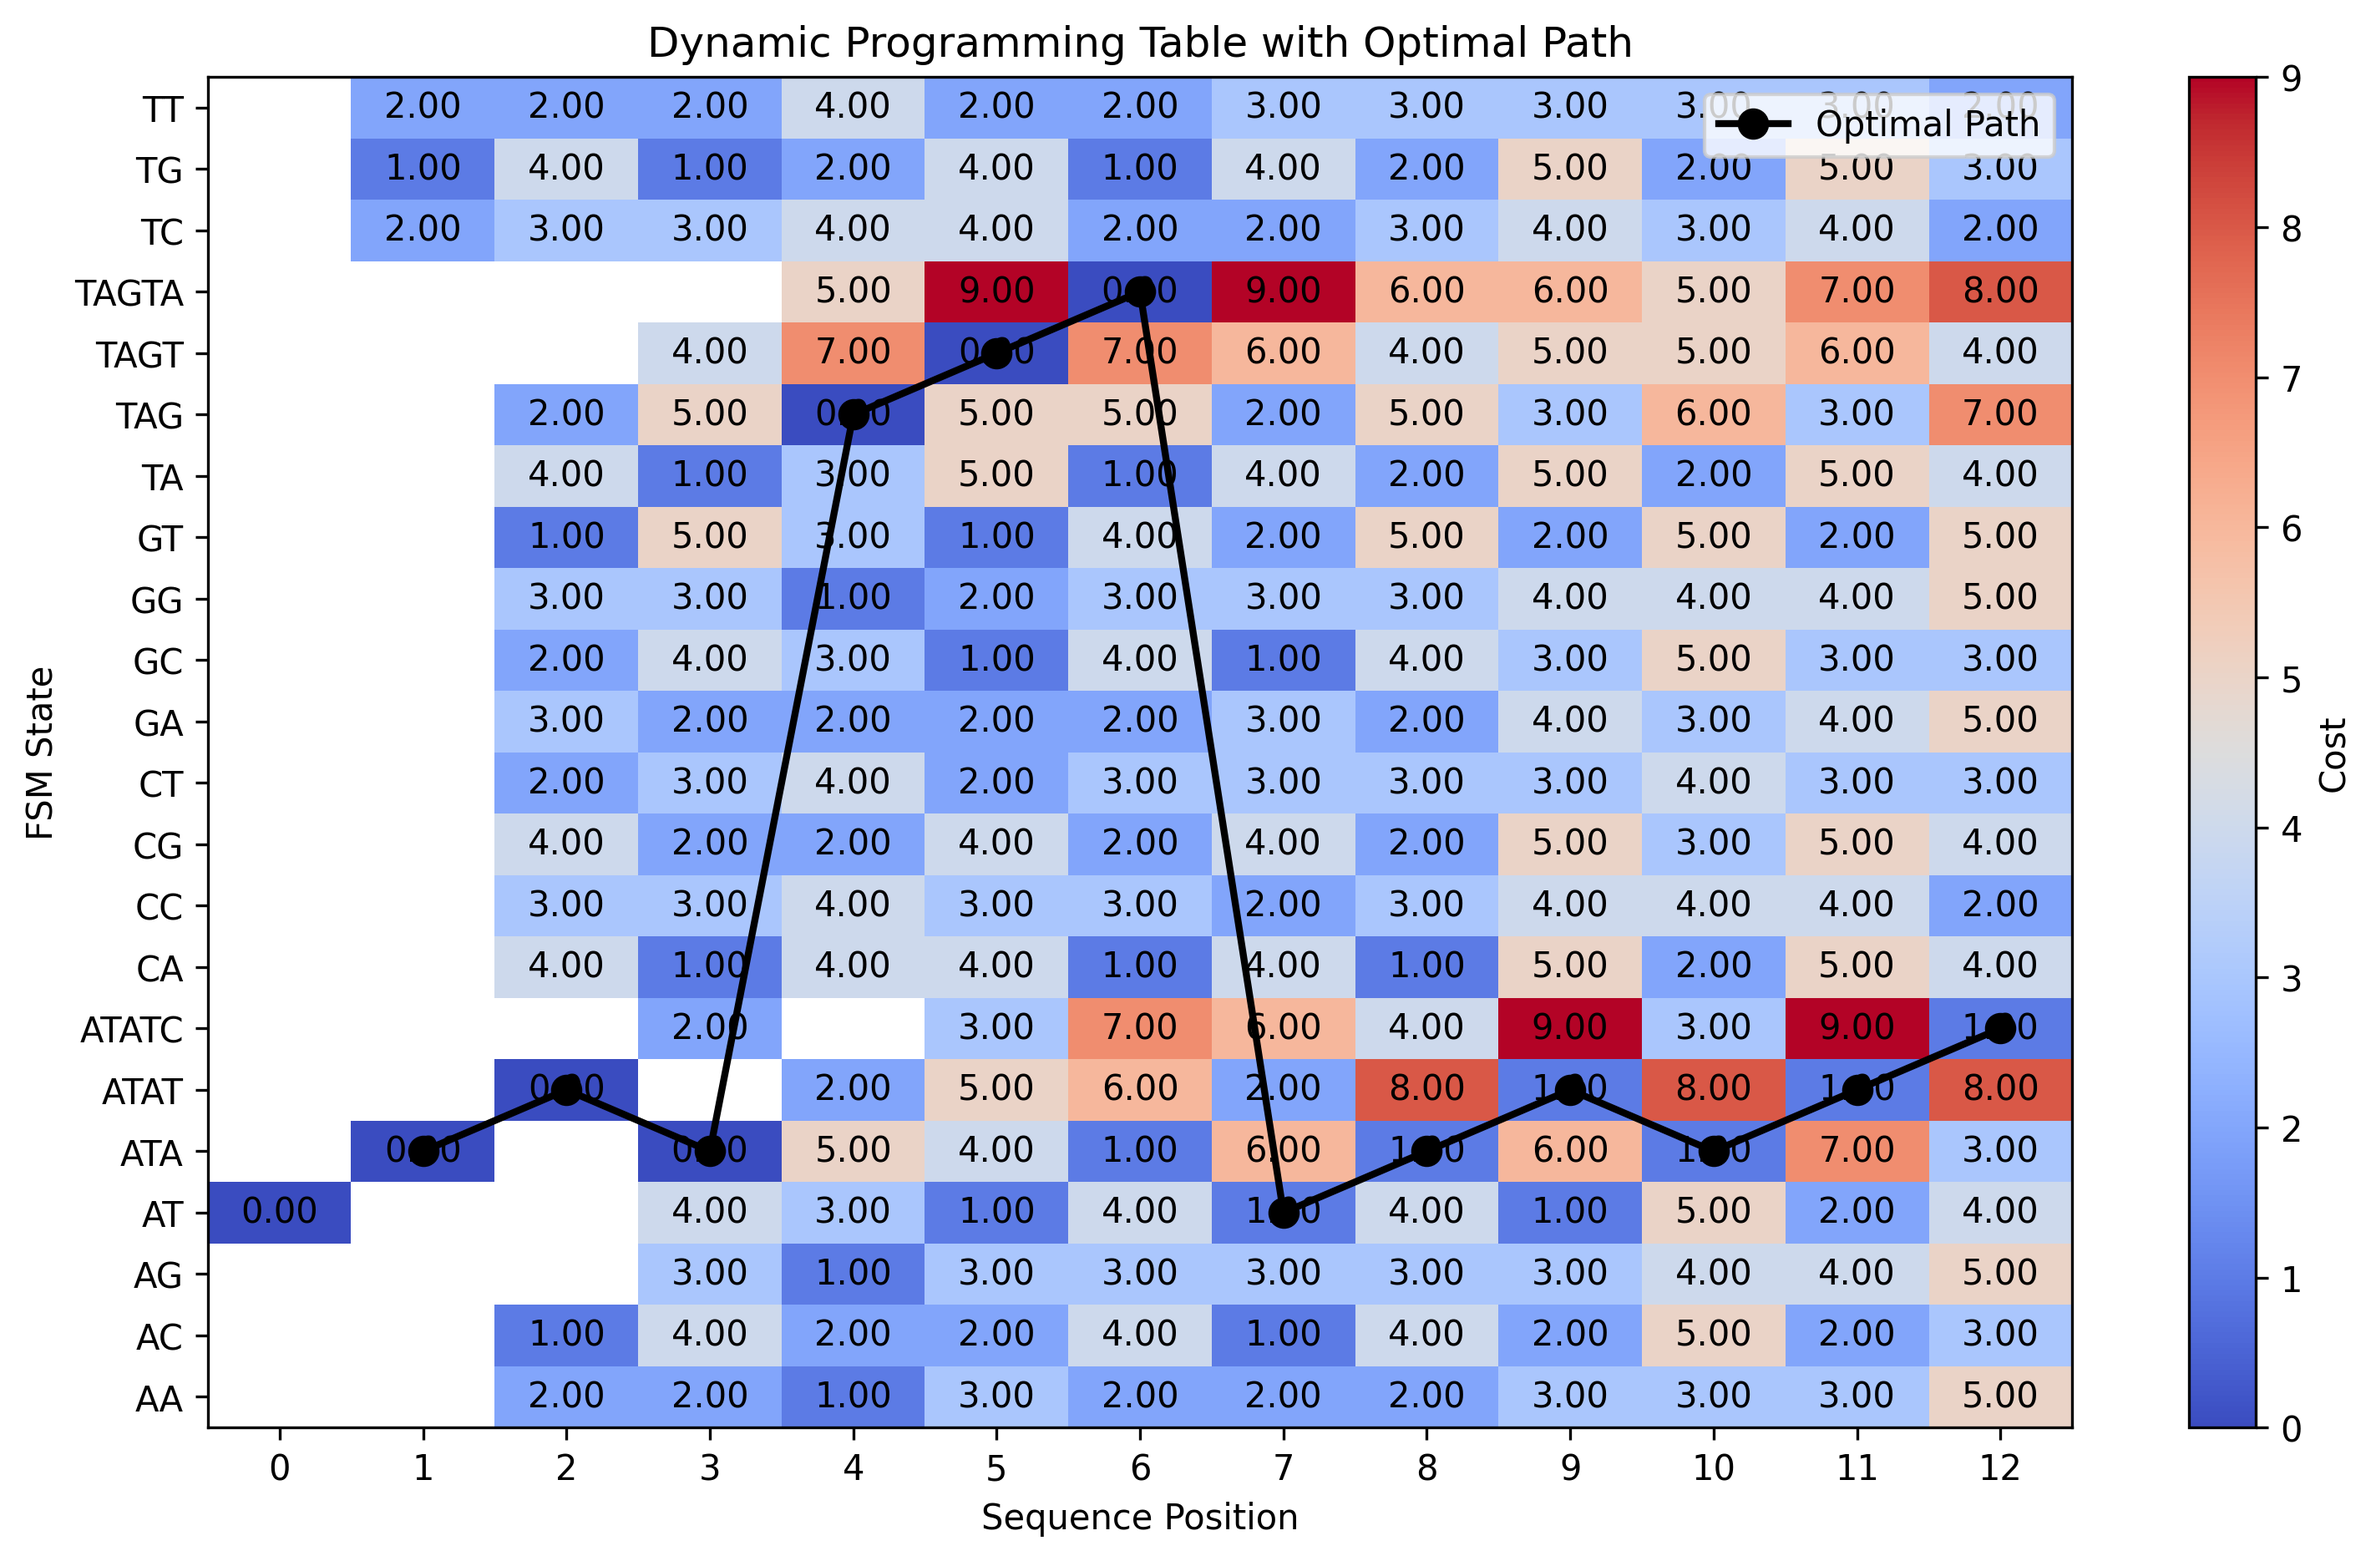
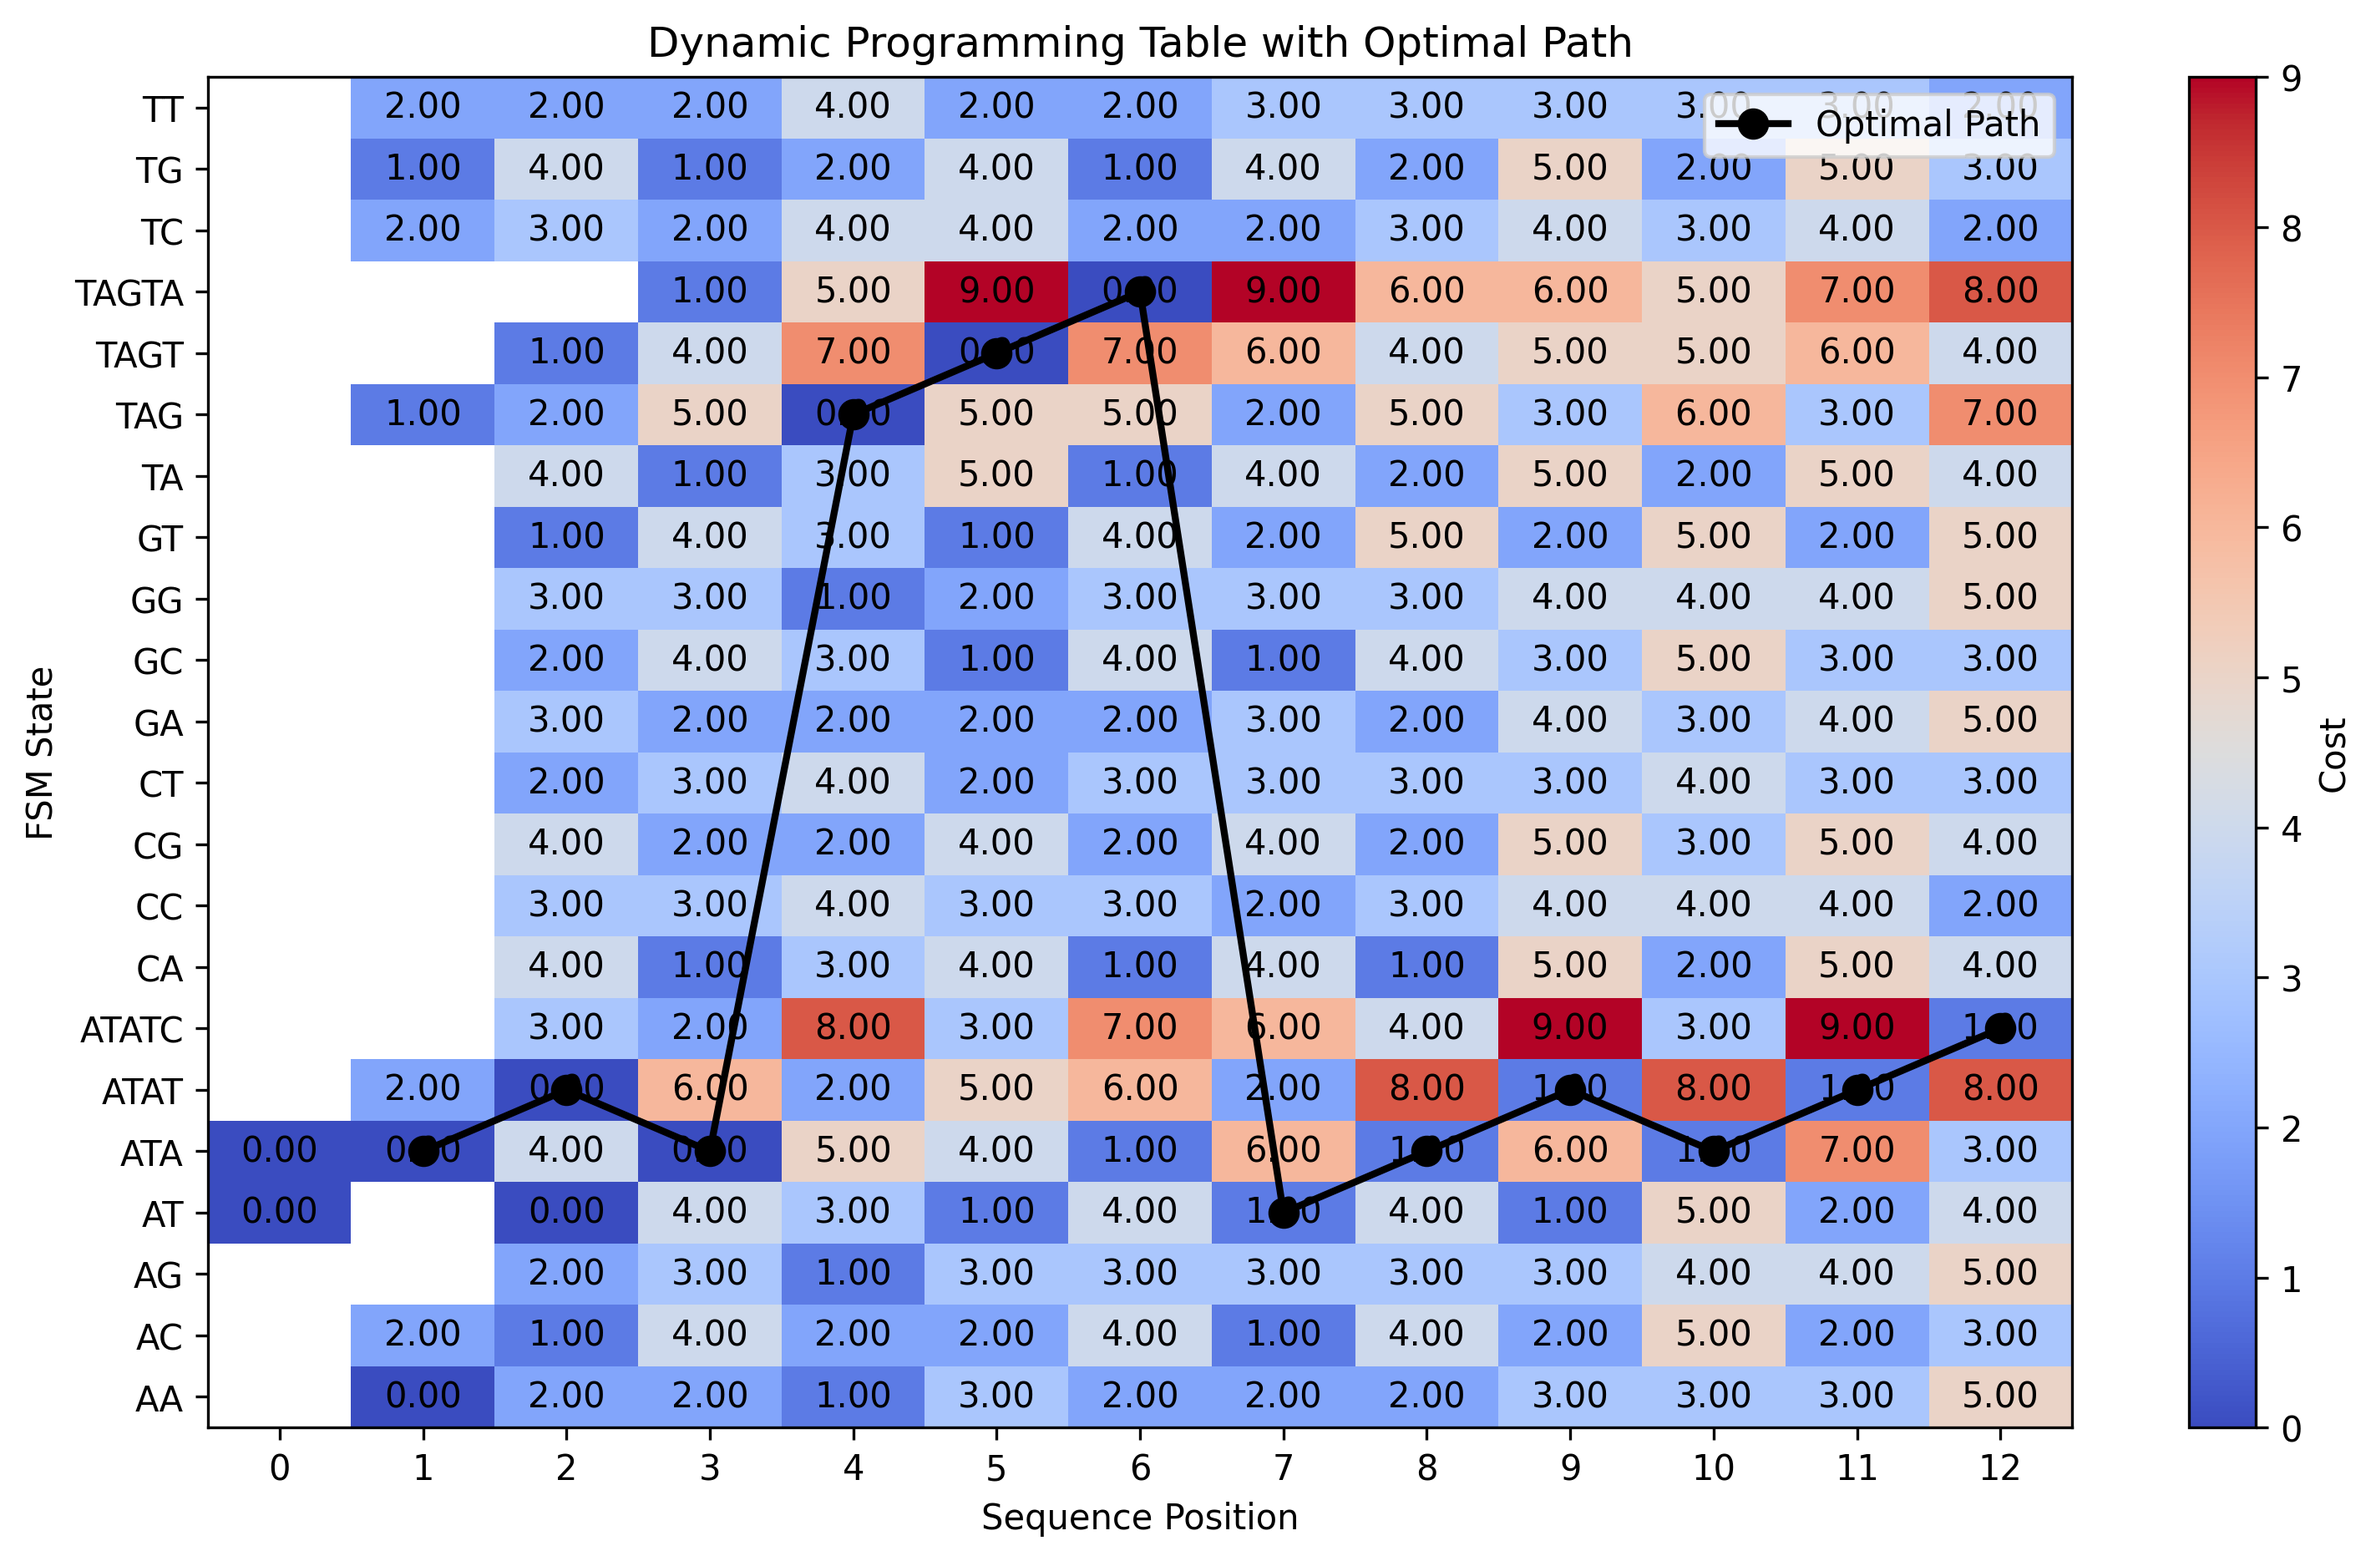
fix dp algorithm

Changed region(s): [[0.0619, 0.5896, 0.4021, 0.931], [0.1237, 0.1241, 0.3402, 0.3103], [0.2475, 0.3103, 0.3402, 0.3724]]

diff --git a/algorithm/eliminate_sequence.py b/algorithm/eliminate_sequence.py
@@ -38,7 +38,7 @@ class EliminationController:
 
         # Dynamic programming table A, initialized with infinity
         A = defaultdict(lambda: float('inf'))
-        for v in fsm.initial_states:
+        for v in fsm.V:
             if target_sequence.startswith(v):
                 A[(0, v)] = 0  # Initialize all states as potential starting points
 
